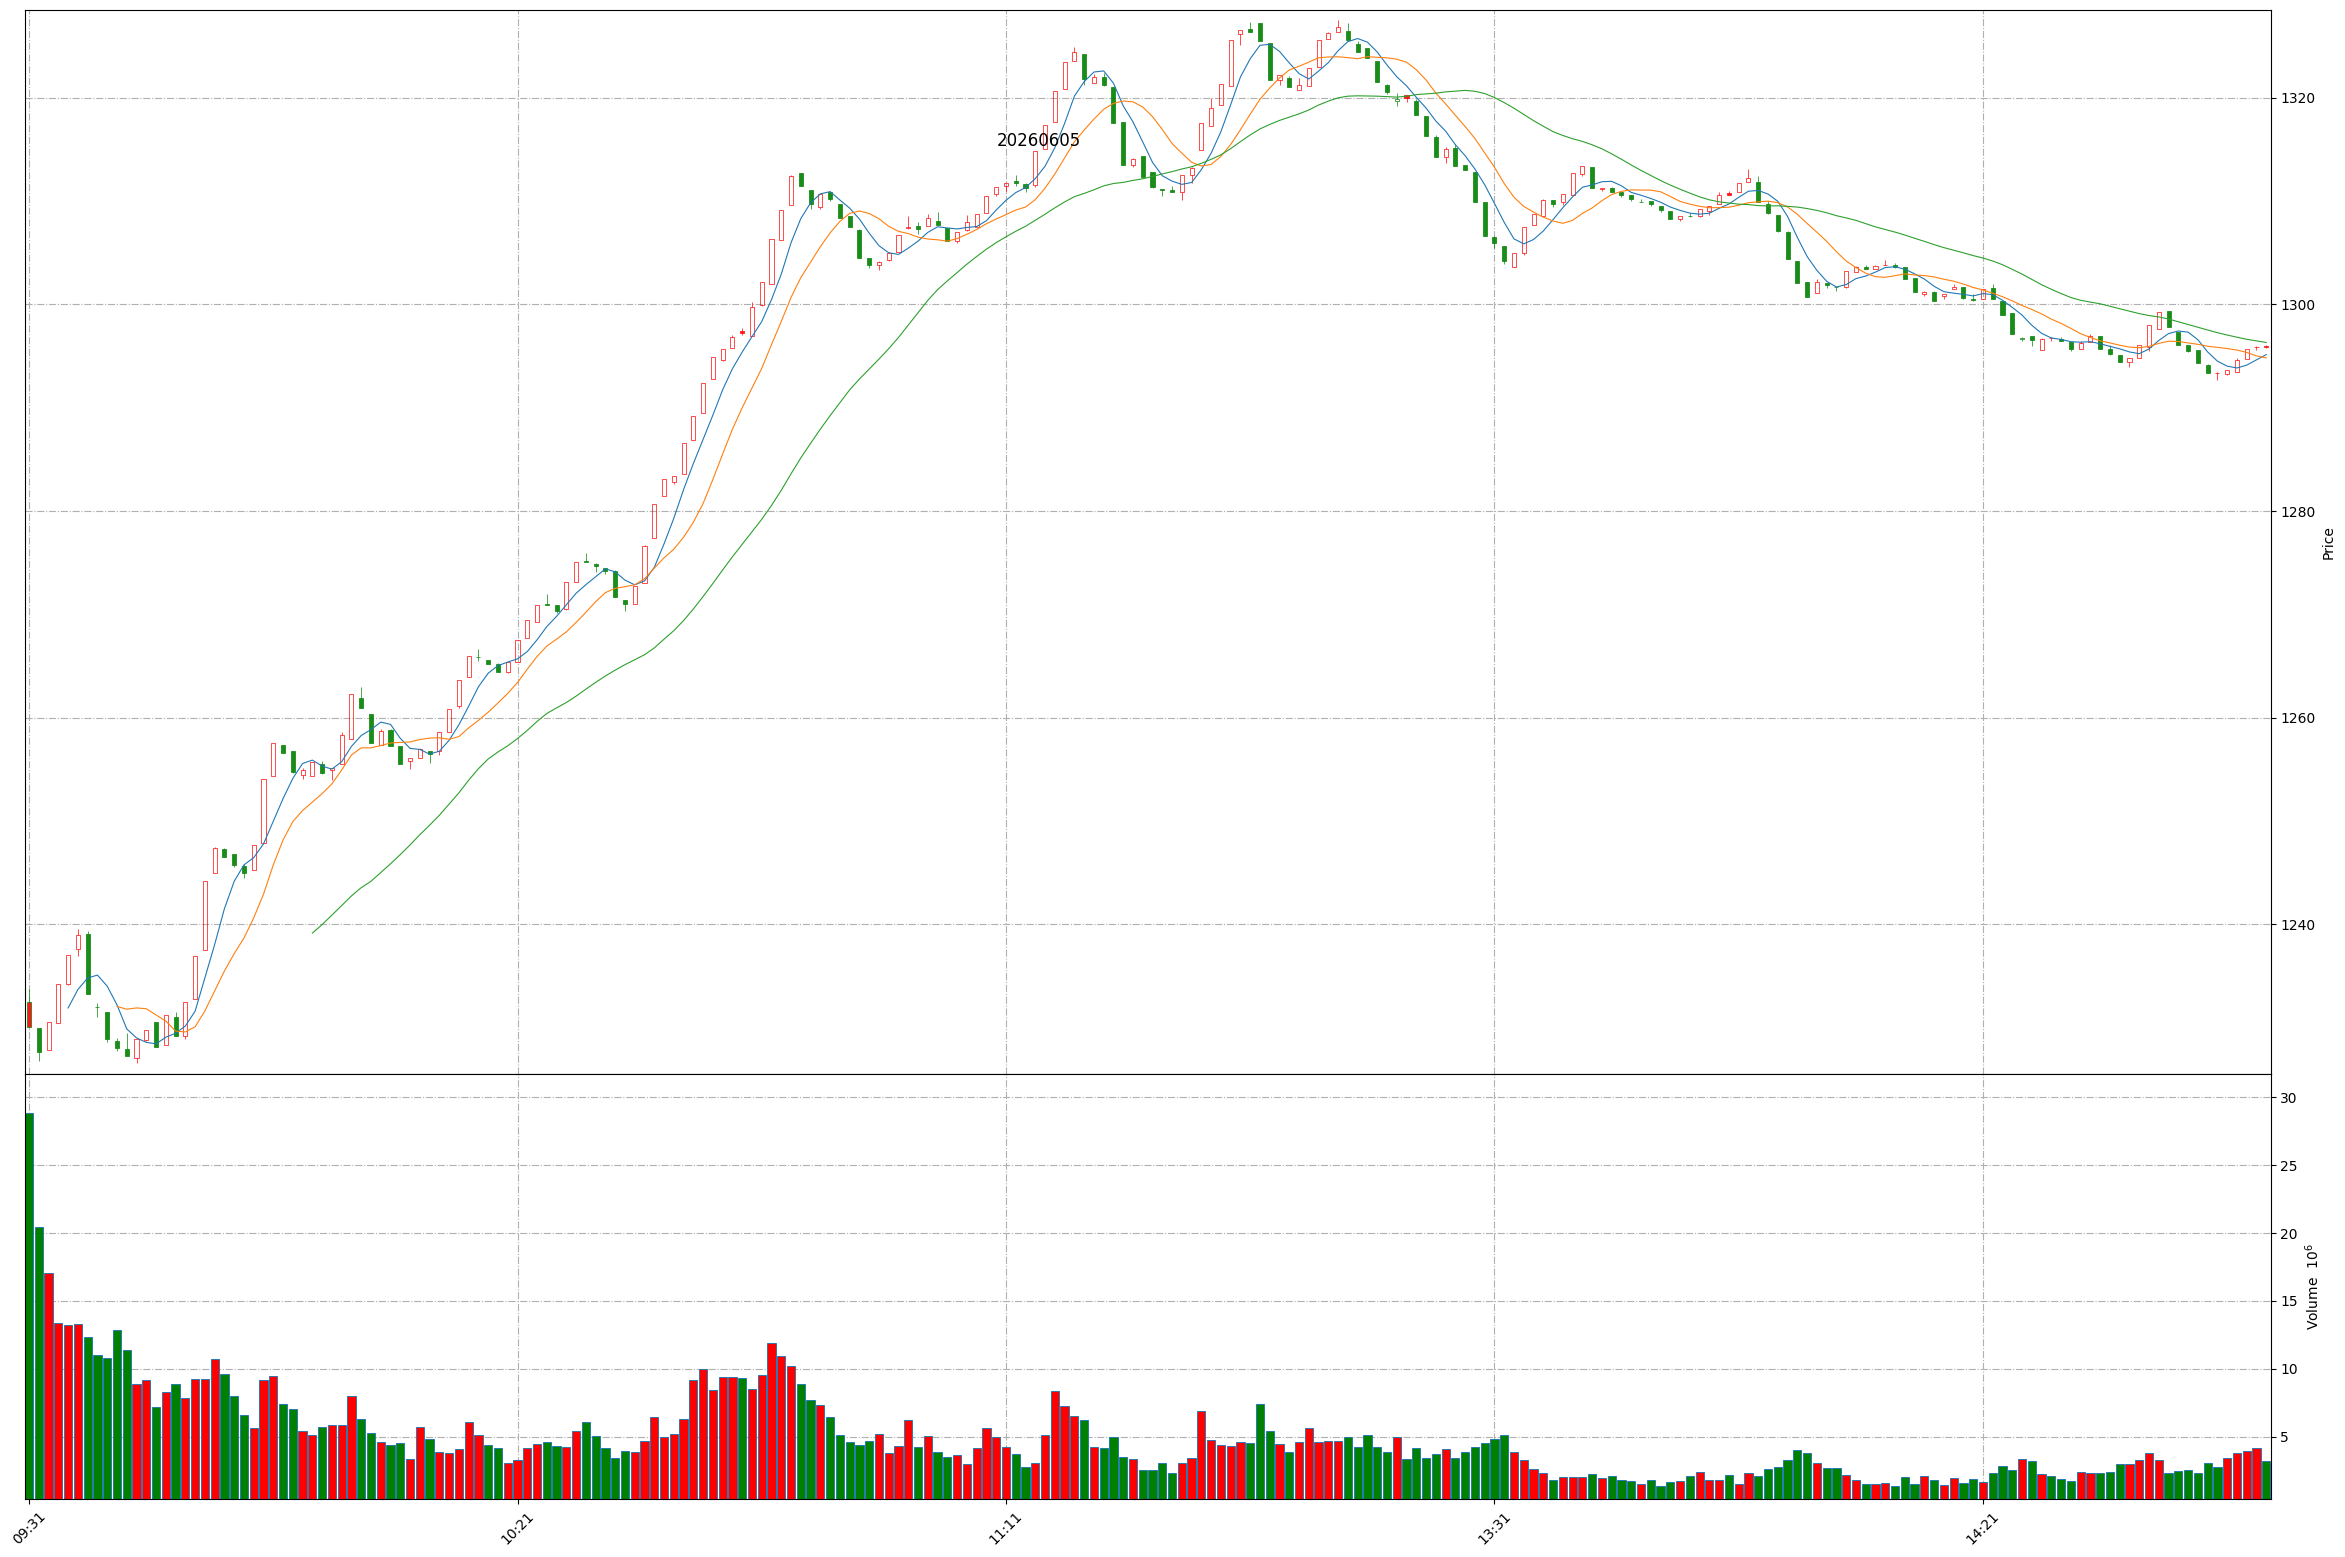
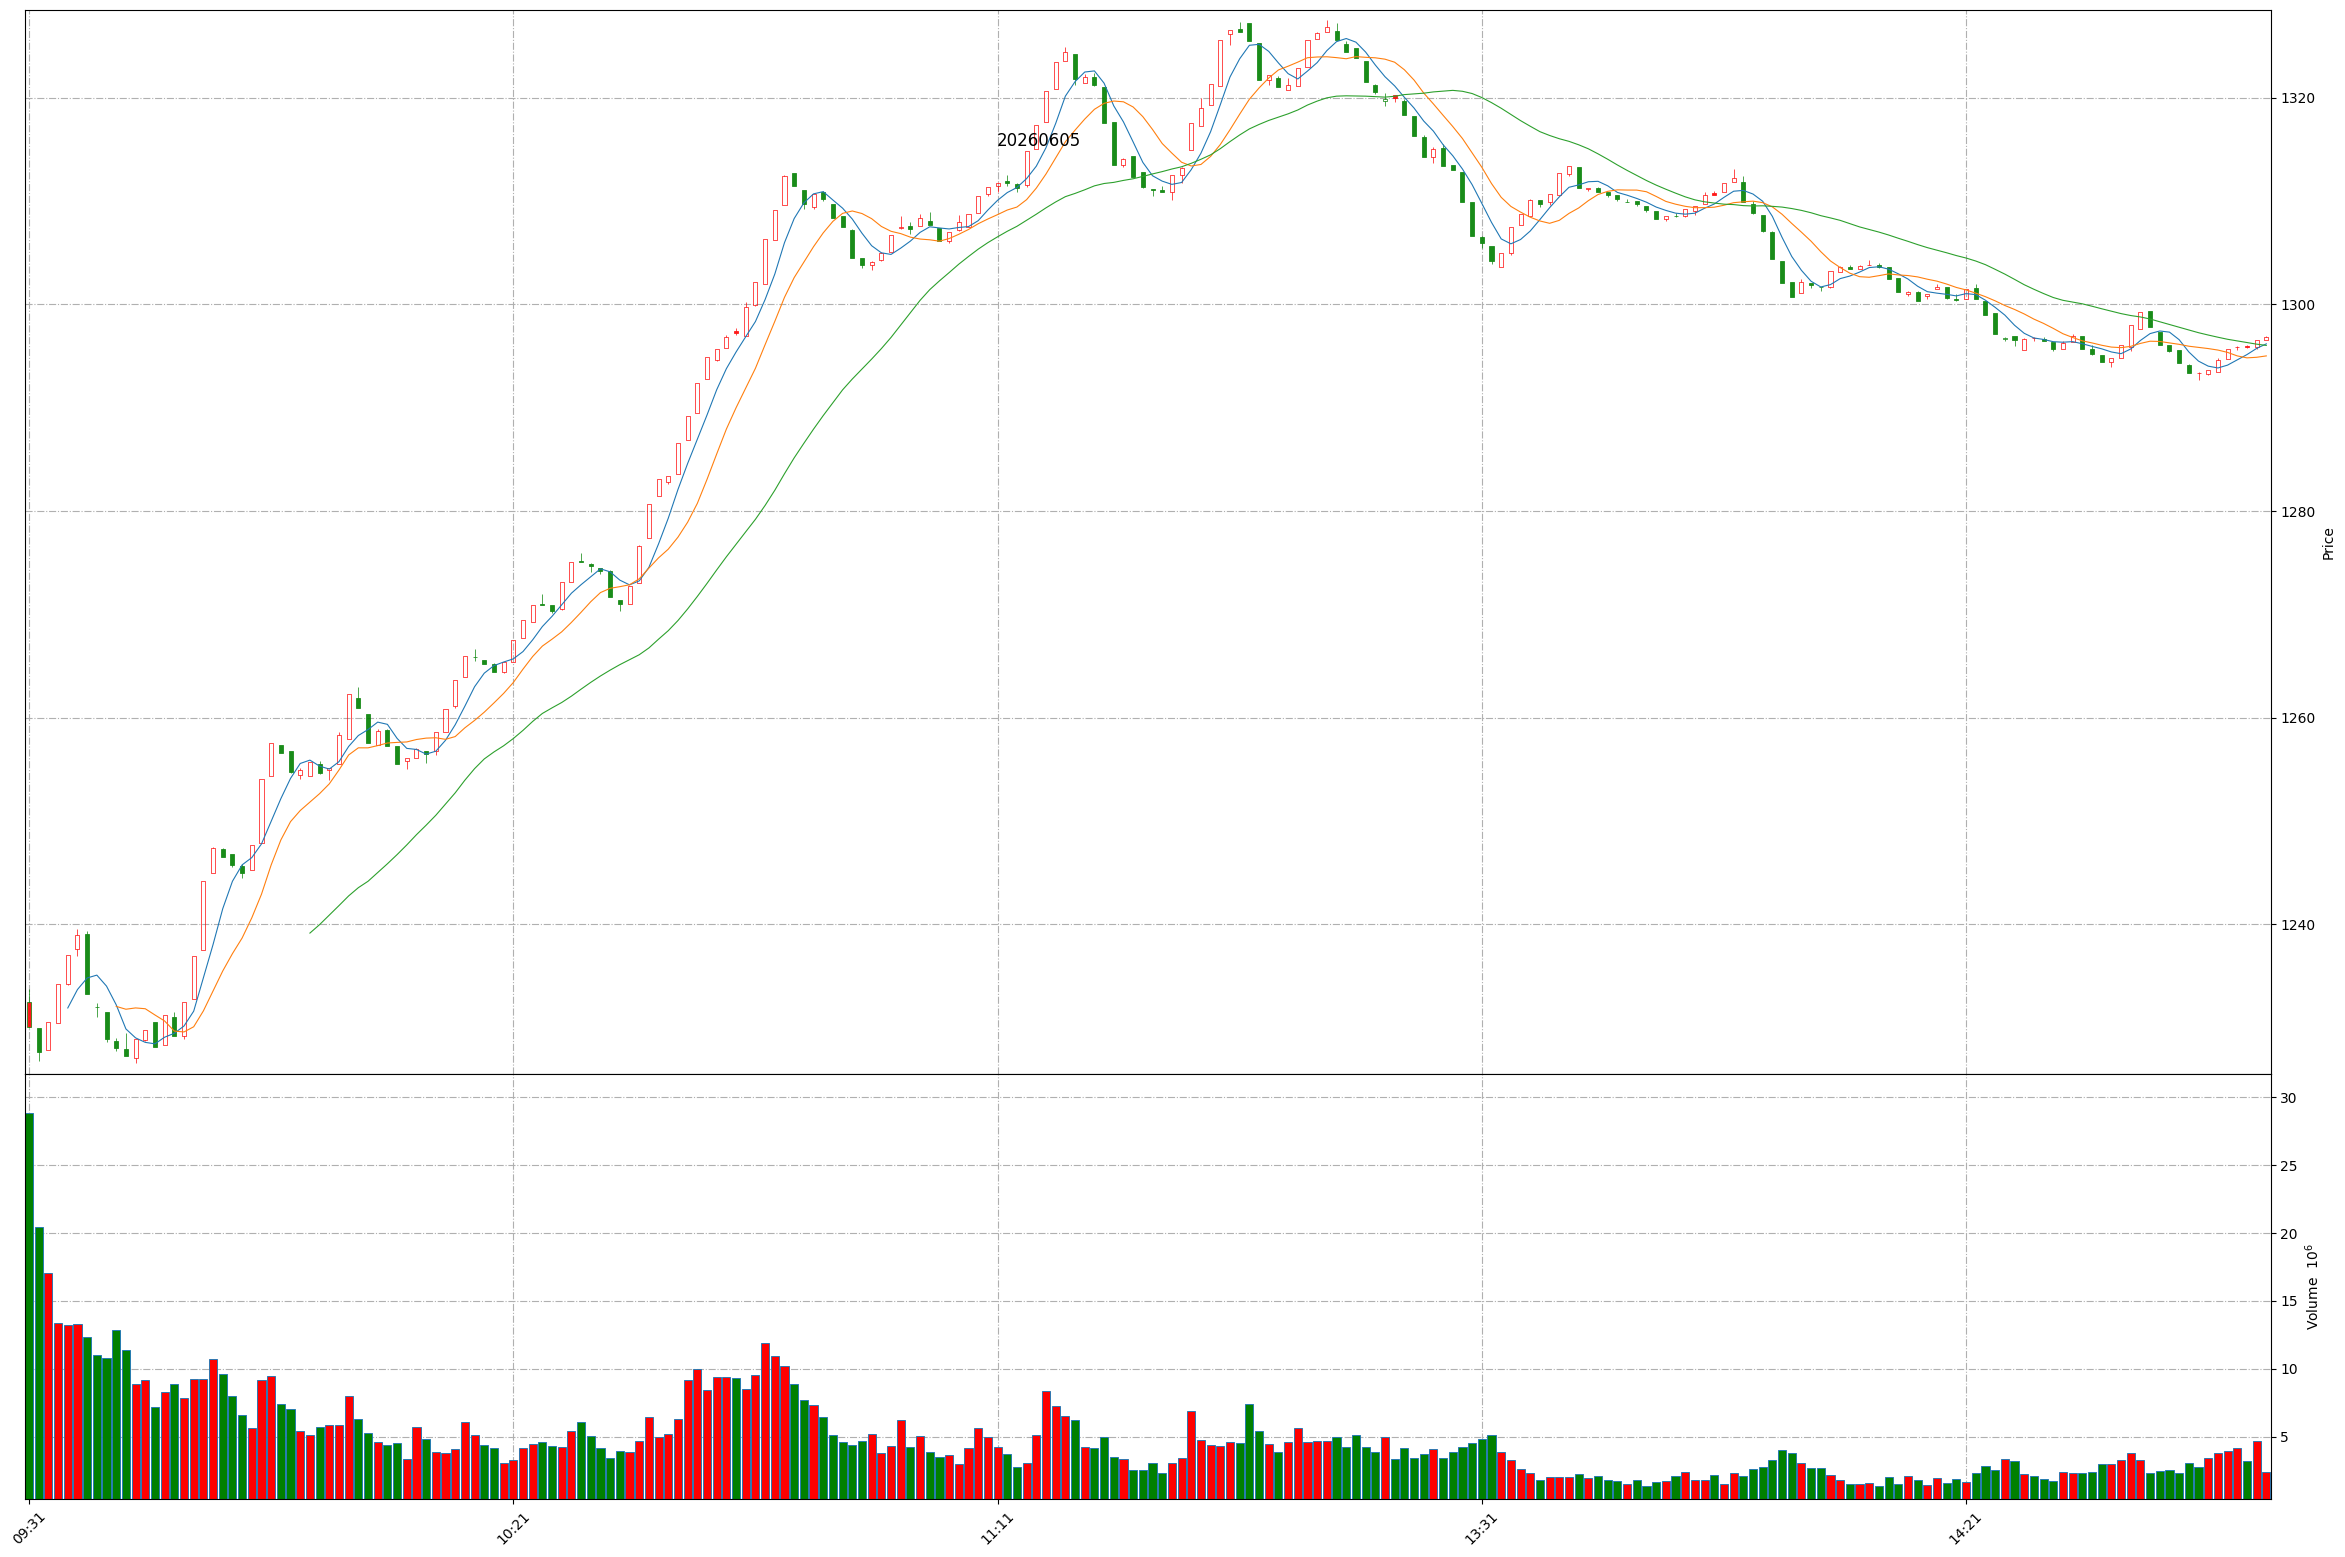
Github action update at 2026-06-05 14:51:46.

diff --git a/README.md b/README.md
@@ -1,11 +1,11 @@
 
 # Daily-A-share-market-quotes 每日 A 股指数（5min 更新）- 20260605
 
-### 上证指数 20260605 14:50
+### 上证指数 20260605 14:51
 ![](./fig/2026/6/20260605-sh000001.png)
 
-### 深证成指 20260605 14:50
+### 深证成指 20260605 14:51
 ![](./fig/2026/6/20260605-sz399001.png)
 
-### 北证50 20260605 14:50
+### 北证50 20260605 14:51
 ![](./fig/2026/6/20260605-bj899050.png)
